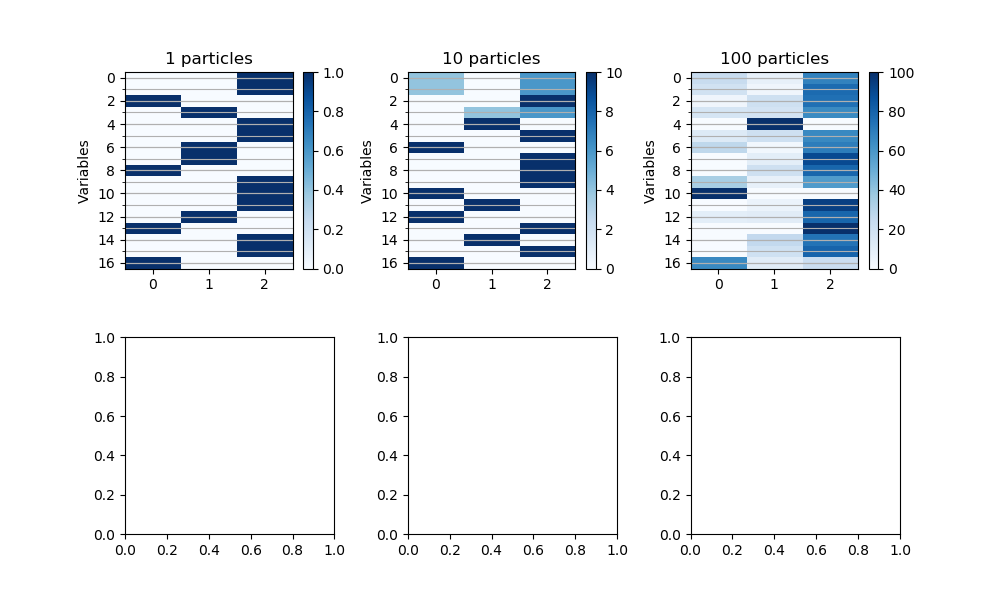
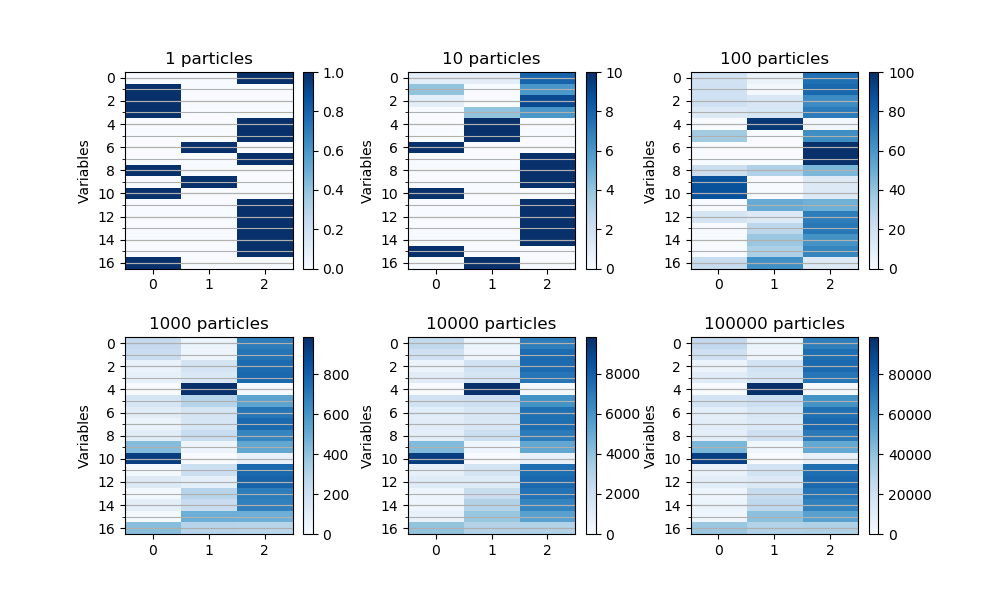
updated logZ based on suggestions from Inna and Naomi, running for figures now

diff --git a/HW6/smc.py b/HW6/smc.py
@@ -31,7 +31,11 @@ def resample_particles(particles, log_weights):
     # buildl index map with categorial distribution
     # logsumexp of log weights
 
-    logZ = torch.logsumexp(torch.tensor(log_weights),0)/len(particles)
+    # logZ = torch.logsumexp(torch.tensor(log_weights),0)/len(particles) # wrong - doesn't handle division/taking log properly
+    
+    new_weights = torch.logsumexp(torch.tensor(log_weights),0)
+    logL = torch.log(torch.tensor(len(log_weights), dtype=float))
+    logZ = new_weights - logL
 
     return logZ, new_particles
 
@@ -94,12 +98,12 @@ def SMC(n_particles, exp):
 
 if __name__ == '__main__':
     #for i in range(1,5):
-    for i in range(1,2):
+    for i in range(3,4):
         print("\n\n Program ",str(i))
         with open('programs/{}.json'.format(i),'r') as f:
             exp = json.load(f)
-        # n_p = [1, 10, 100, 1000, 10000, 100000]
-        n_p = [1,10,100,1000,10000]
+        n_p = [1, 10, 100, 1000, 10000, 100000]
+        # n_p = [1,10,100,1000,10000]
 
         fig = plt.figure(figsize=(10,6))
         grid = plt.GridSpec(2, 3, figure=fig, hspace=0.35, wspace=0.35)
@@ -162,5 +166,6 @@ if __name__ == '__main__':
             
             axes[str(j)].set_title( "{} particles".format(n) )
             j=j+1
-        plt.show()
-        fig.savefig('program'+str(i)+'_hist.png')
+            fig.savefig('program'+str(i)+'_hist.png')
+        # plt.show()
+        
